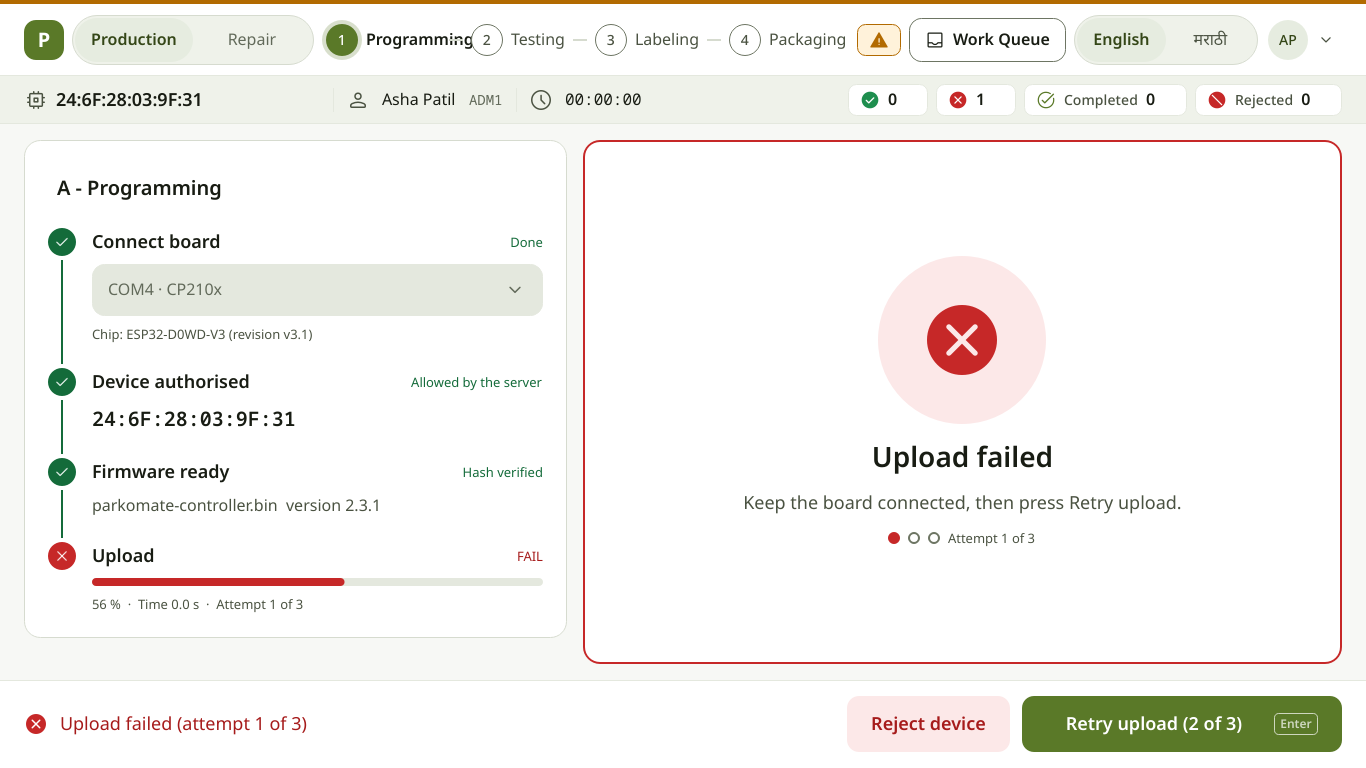
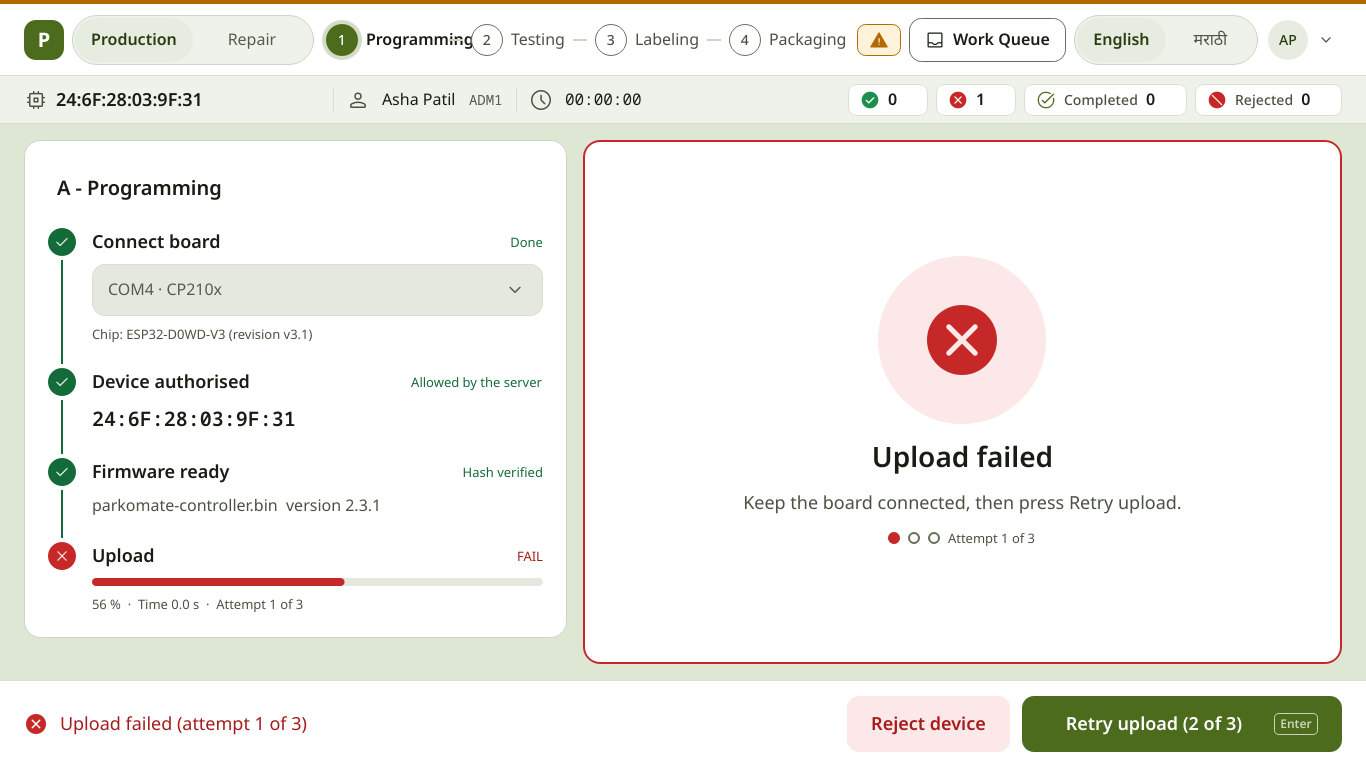
feat: brand sage green page background with high-contrast card elevation and WCAG AA compliance

Changed region(s): [[0.0, 0.1562, 1.0, 0.9062]]

diff --git a/src/parkomate/ui/theme/tokens.py b/src/parkomate/ui/theme/tokens.py
@@ -21,24 +21,24 @@ from dataclasses import dataclass, field
 @dataclass(frozen=True, slots=True)
 class Colors:
     # ---- neutrals (warm olive/sage brand-aligned from parkomate.com dashboard)
-    bg: str = "#F7F8F5"  # page background
+    bg: str = "#DEE7D4"  # page background (brand sage green)
     surface: str = "#FFFFFF"  # cards
     surface_2: str = "#EFF2EA"  # inset areas, table header, input fill
     surface_3: str = "#E4E8DE"  # hover on surface_2, disabled fill
-    outline: str = "#D6DBCF"  # card / input borders (1 px)
-    outline_soft: str = "#E4E8DE"  # dividers
-    outline_strong: str = "#6D7563"  # unselected controls (>= 3:1 on surface and surface_2)
+    outline: str = "#CCD4C4"  # card / input borders (1 px)
+    outline_soft: str = "#D8E0D0"  # dividers
+    outline_strong: str = "#66725B"  # unselected controls (>= 3:1 on surface and surface_2)
     text: str = "#181C13"  # primary text
     text_2: str = "#4A5241"  # secondary text
-    text_3: str = "#626A5A"  # captions, placeholders
+    text_3: str = "#545D4C"  # captions, placeholders
     # ---- accent (Parkomate Olive Green from brand dashboard)
-    primary: str = "#5A7928"
-    primary_hov: str = "#4D6722"
-    primary_pressed: str = "#40561C"
+    primary: str = "#4C6B1D"
+    primary_hov: str = "#3F5917"
+    primary_pressed: str = "#334712"
     primary_cont: str = "#E6ECE0"  # tonal buttons, active card surface, badge container
     primary_cont_hov: str = "#DCE3D4"
     on_primary: str = "#FFFFFF"
-    on_primary_cont: str = "#344617"
+    on_primary_cont: str = "#2B3C0F"
     # ---- status (never decorative). "<x>" = icons, bars and fills; "on_<x>_cont" = text on
     # the <x>_cont container and on white, and the fill behind white text.
     success: str = "#1E8E4E"
